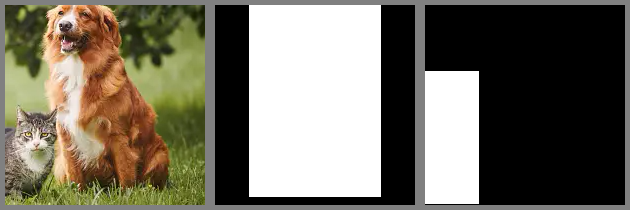
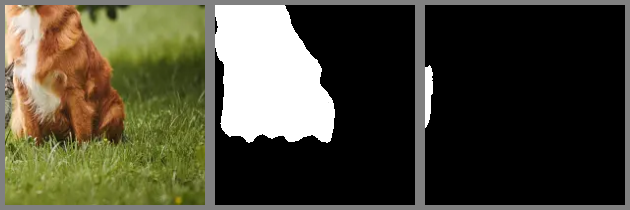
update

diff --git a/src/08_merge_masks.py b/src/08_merge_masks.py
@@ -1,0 +1,82 @@
+from typing import List, Tuple, Dict, Any
+from pathlib import Path
+
+import albumentations as A
+import cv2
+import numpy as np
+import rootutils
+import importlib
+
+rootutils.setup_root(__file__, indicator=".git", pythonpath=True)
+
+from src.utils import make_grid_image
+Crop = importlib.import_module("src.02_dualtransform").Crop
+
+class MergeMasks(A.DualTransform):
+    def __init__(
+        self, 
+        object_value: Tuple[int, int, int] = (255, 0, 0),
+        bg_value: Tuple[int, int, int] = (0, 255, 0),
+        always_apply=False,
+        p=1,
+    ):
+        super().__init__(always_apply, p)
+        self.object_value = object_value
+        self.bg_value = bg_value
+    
+    def apply(self, img: np.ndarray, **params) -> np.ndarray:
+        return img
+    
+    def apply_with_params(
+        self, 
+        params: Dict[str, Any], 
+        *args: Any, 
+        **kwargs: Any,
+    ) -> Dict[str, Any]:
+        res = super().apply_with_params(params, *args, **kwargs)
+        
+        H, W = res["mask_dog"].shape
+        canvas = np.zeros((H, W, 3), dtype=np.uint8)
+        
+        mask_object = np.logical_or(res["mask_dog"], res["mask_cat"])
+        mask_bg = np.logical_or(res["mask_grass"], res["mask_tree"])
+        union = np.logical_or(mask_object, mask_bg)
+        complement = np.logical_not(union)
+        
+        canvas[mask_object] = self.object_value
+        canvas[mask_bg] = self.bg_value
+        res["mask_merged"] = canvas
+        res["image_overlay"] = cv2.addWeighted(res["image"], 0.5, canvas, 0.5, 0)
+        
+        return res
+    
+    def get_transform_init_args_names(self) -> Tuple[str]:
+        return ("object_value", "bg_value")
+
+transform = A.Compose([
+    A.Rotate(limit=10, border_mode=0, p=1), 
+    MergeMasks(object_value=(0, 170, 246), bg_value=(255, 90, 0), p=1),
+], additional_targets={
+    "mask_dog": "mask", 
+    "mask_cat": "mask",
+    "mask_grass": "mask",
+    "mask_tree": "mask",
+})
+
+image = cv2.imread('data/images/dog_and_cat.png')
+mask_dog = cv2.imread('data/masks/dog.png', cv2.IMREAD_GRAYSCALE)
+mask_cat = cv2.imread('data/masks/cat.png', cv2.IMREAD_GRAYSCALE)
+mask_grass = cv2.imread('data/masks/grass.png', cv2.IMREAD_GRAYSCALE)
+mask_tree = cv2.imread('data/masks/tree.png', cv2.IMREAD_GRAYSCALE)
+transformed = transform(
+    image=image, 
+    mask_dog=mask_dog, 
+    mask_cat=mask_cat,
+    mask_grass=mask_grass,
+    mask_tree=mask_tree,
+)
+grid_image = make_grid_image([
+    transformed["image"], 
+    transformed["mask_merged"], 
+    transformed["image_overlay"]], n_cols=3)
+cv2.imwrite('data/results/merged_mask.png', grid_image)

diff --git a/src/07_dog_mask.py b/src/07_dog_mask.py
@@ -1,0 +1,66 @@
+from typing import List, Tuple
+from pathlib import Path
+
+import albumentations as A
+import cv2
+import numpy as np
+import rootutils
+import importlib
+
+rootutils.setup_root(__file__, indicator=".git", pythonpath=True)
+
+from src.utils import make_grid_image
+Crop = importlib.import_module("src.02_dualtransform").Crop
+
+class CropDogArea(A.DualTransform):
+    def __init__(self, always_apply=False, p=1):
+        super().__init__(always_apply, p)
+    
+    def apply(
+        self, 
+        image: np.ndarray,
+        x_min: int,
+        y_min: int,
+        x_max: int,
+        y_max: int,
+        **params,
+    ) -> np.ndarray:
+        return image[y_min:y_max, x_min:x_max]
+    
+    def get_params_dependent_on_targets(self, params):
+        mask = params["mask_dog"]
+        indices = np.where(mask > 0)
+        y_min, y_max = indices[0].min(), indices[0].max()
+        x_min, x_max = indices[1].min(), indices[1].max()
+        
+        return {
+            "x_min": x_min,
+            "y_min": y_min,
+            "x_max": x_max,
+            "y_max": y_max,
+        }
+
+    @property
+    def targets_as_params(self):
+        return ["mask_dog"]
+
+transform = A.Compose([
+    CropDogArea(p=1), 
+    A.PadIfNeeded(
+        min_height=210,
+        min_width=140,
+        value=(128, 128, 128),
+        mask_value=128,
+    )], 
+    additional_targets={"mask_dog": "mask", "mask_cat": "mask"}
+)
+
+image = cv2.imread('data/images/dog_and_cat.png')
+mask_dog = cv2.imread('data/masks/dog.png', cv2.IMREAD_GRAYSCALE)
+mask_cat = cv2.imread('data/masks/cat.png', cv2.IMREAD_GRAYSCALE)
+transformed = transform(image=image, mask_dog=mask_dog, mask_cat=mask_cat)
+grid_image = make_grid_image([
+    transformed["image"], 
+    transformed["mask_dog"], 
+    transformed["mask_cat"]], n_cols=3)
+cv2.imwrite('data/results/crop_dog_area.png', grid_image)

diff --git a/src/06_dog_masks.py b/src/06_dog_masks.py
@@ -1,0 +1,62 @@
+from typing import List, Tuple
+from pathlib import Path
+
+import albumentations as A
+import cv2
+import numpy as np
+import rootutils
+import importlib
+
+rootutils.setup_root(__file__, indicator=".git", pythonpath=True)
+
+from src.utils import make_grid_image
+Crop = importlib.import_module("src.02_dualtransform").Crop
+
+class CropDogArea(A.DualTransform):
+    def __init__(self, always_apply=False, p=1):
+        super().__init__(always_apply, p)
+    
+    def apply(
+        self, 
+        image: np.ndarray,
+        x_min: int,
+        y_min: int,
+        x_max: int,
+        y_max: int,
+        **params,
+    ) -> np.ndarray:
+        return image[y_min:y_max, x_min:x_max]
+    
+    def get_params_dependent_on_targets(self, params):
+        mask = params["masks"][0] # HERE!
+        indices = np.where(mask > 0)
+        y_min, y_max = indices[0].min(), indices[0].max()
+        x_min, x_max = indices[1].min(), indices[1].max()
+        
+        return {
+            "x_min": x_min,
+            "y_min": y_min,
+            "x_max": x_max,
+            "y_max": y_max,
+        }
+
+    @property
+    def targets_as_params(self):
+        return ["masks"]
+
+transform = A.Compose([
+    CropDogArea(p=1), 
+    A.PadIfNeeded(
+        min_height=200,
+        min_width=130,
+        value=(128, 128, 128),
+        mask_value=128,
+    )],
+)
+
+image = cv2.imread('data/images/dog_and_cat.png')
+mask_dog = cv2.imread('data/masks/dog.png', cv2.IMREAD_GRAYSCALE)
+mask_cat = cv2.imread('data/masks/cat.png', cv2.IMREAD_GRAYSCALE)
+transformed = transform(image=image, masks=[mask_dog, mask_cat])
+grid_image = make_grid_image([transformed["image"],] + transformed['masks'], n_cols=3)
+cv2.imwrite('data/results/crop_dog_area.png', grid_image)

diff --git a/README.md b/README.md
@@ -1,0 +1,12 @@
+# Albumentations Tutorial
+
+[この記事](https://takumi-iida.com/posts/2024-06-14-albumentations/)の実行コード
+
+## 動かし方
+
+```bash
+$ conda env create -f environment.yml
+$ conda activate albumentations_tutorial
+$ python src/<実行したいスクリプト>.py
+```
+
